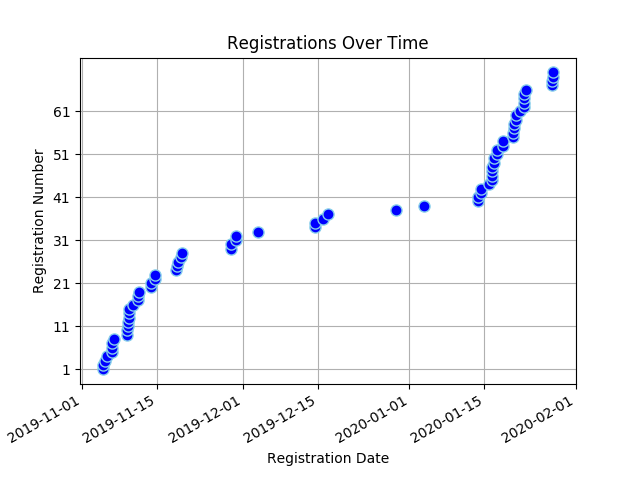
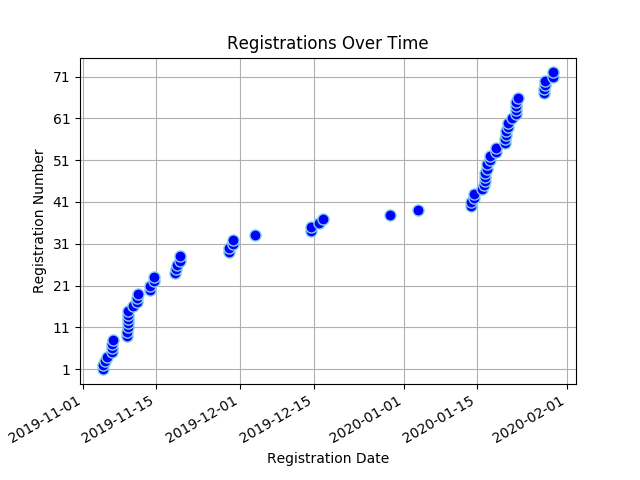
Registree stats backup on Wed Jan 29 12:38:31 SAST 2020

diff --git a/content/registrees/_index.md b/content/registrees/_index.md
@@ -3,9 +3,9 @@ title: Registration Stats
 draft: false
 ---
 
-<ul><li><strong>Number of Registrees</strong>: 70</li>
+<ul><li><strong>Number of Registrees</strong>: 72</li>
 
-<li><strong>Number of Clubs</strong>: 30</li>
+<li><strong>Number of Clubs</strong>: 31</li>
 
 <li><strong>Club With Most Attendees</strong>: Cape Of Good Hope (12 registrees)</li>
 </ul><h2>Registrees</h2>
@@ -30,6 +30,6 @@ draft: false
         </tr>
     </thead>
     <tbody>
-<tr><td>Valencia Beukes</td><td>Kuilsriver</td></tr><tr><td>Jose Braga Borges</td><td>Malmesbury</td></tr><tr><td>Nkandu Chapeshamano</td><td>Rustenburg</td></tr><tr><td>Lynnette Virginia Christians</td><td>Cape Of Good Hope</td></tr><tr><td>Sharon Cottle</td><td>Groote Schuur</td></tr><tr><td>Desiree Du Toit</td><td>Ramsgate</td></tr><tr><td>Charles Flanagan</td><td>Tokai</td></tr><tr><td>Julie Flanagan</td><td>Tokai</td></tr><tr><td>Allison Georges</td><td>Cape Of Good Hope</td></tr><tr><td>Valerie Graham</td><td>Nelspruit</td></tr><tr><td>Michael Graham</td><td>Nelspruit</td></tr><tr><td>Wendy Higgins</td><td>Wilro Park</td></tr><tr><td>Trevor Hobbs</td><td>North Durban</td></tr><tr><td>Avril Hobbs</td><td>North Durban</td></tr><tr><td>Jacqui Hocking</td><td>Midrand</td></tr><tr><td>Cliff Hocking</td><td>Midrand</td></tr><tr><td>Akinyemi Ismaila Tunde</td><td>Alberton</td></tr><tr><td>Dawid Jacobs</td><td>Durbanville</td></tr><tr><td>Brenda Joshua</td><td>Cape Of Good Hope</td></tr><tr><td>Charlotte Jubelin</td><td>Cape Of Good Hope</td></tr><tr><td>Pascal Kabangu</td><td>Cape Of Good Hope</td></tr><tr><td>Zwaai Krüger</td><td>Sedgefield</td></tr><tr><td>Heather Lee</td><td>Cape Of Good Hope</td></tr><tr><td>Darrol Lee</td><td>Cape Of Good Hope</td></tr><tr><td>Nick Maré</td><td>Benoni Lakes</td></tr><tr><td>Beaulieu Maré</td><td>Benoni Lakes</td></tr><tr><td>Lance Maytham</td><td>Bredasdorp</td></tr><tr><td>David McCullough</td><td>Benoni Lakes</td></tr><tr><td>Gizella McCullough</td><td>Benoni Lakes</td></tr><tr><td>Mark Meltzer</td><td>The Wilds</td></tr><tr><td>Roy Michas</td><td>Midrand</td></tr><tr><td>Dawn Michas</td><td>Midrand</td></tr><tr><td>Patrick Mills</td><td>Centurion</td></tr><tr><td>Bernice Mills</td><td>Centurion</td></tr><tr><td>Brian Moses</td><td>Cape Of Good Hope</td></tr><tr><td>Alain Moulounda</td><td>Cape Of Good Hope</td></tr><tr><td>Michael Newlands</td><td>Port Alfred</td></tr><tr><td>Ramona Nulliah</td><td>Durban Host</td></tr><tr><td>Gary Nulliah</td><td>Durban Host</td></tr><tr><td>Jessica Philander</td><td>Cape Of Good Hope</td></tr><tr><td>Yvonne  Maureen Poyo</td><td>Cape Of Good Hope</td></tr><tr><td>Pinky Serobatse</td><td>(Partner in Service)</td></tr><tr><td>Susanna Helena Smit</td><td>Centurion</td></tr><tr><td>Herman Smit</td><td>Swellendam</td></tr><tr><td>Berdine Smit</td><td>(Partner in Service)</td></tr><tr><td>Bennie Smith</td><td>Wellington</td></tr><tr><td>Rochelle Smith</td><td>Cape Of Good Hope</td></tr><tr><td>Jeff Smith</td><td>Port Shepstone</td></tr><tr><td>Pierre Theron</td><td>Midrand</td></tr><tr><td>Moira Theron</td><td>Midrand</td></tr><tr><td>Alex Tshikala</td><td>Athlone</td></tr><tr><td>Alistair Tuckett</td><td>Roodepoort Clearwater Cyber</td></tr><tr><td>Gail Tuckett</td><td>Roodepoort Clearwater Cyber</td></tr><tr><td>Rowan Tuckett</td><td>Roodepoort Clearwater Cyber</td></tr><tr><td>Yolandi Van der Schyf</td><td>Midrand</td></tr><tr><td>Keith Weston</td><td>Scottburgh</td></tr><tr><td>Barbara Weston</td><td>Scottburgh</td></tr><tr><td>Joyce Wilcocks</td><td>Pretoria Jakaranda</td></tr><tr><td>Richard Williams</td><td>(Partner in Service)</td></tr><tr><td>Owolabi Williams Monzur</td><td>Badagry</td></tr><tr><td>Geila Wills</td><td>Cape Town</td></tr><tr><td>Judy Young</td><td>Durbanville</td></tr><tr><td>Sydney van Heerden</td><td>Wilro Park</td></tr><tr><td>Sandy van Heerden</td><td>Wilro Park</td></tr><tr><td>Lindie van Wyk</td><td>Pretoria Jakaranda</td></tr><tr><td>Vicki van Wyk</td><td>North Durban</td></tr><tr><td>Kim van Wyk</td><td>North Durban</td></tr><tr><td>Patricia van Wyk</td><td>Pretoria Jakaranda</td></tr><tr><td>Willie van Wyk</td><td>Midrand</td></tr><tr><td>Martha Maria van der Merwe</td><td>Malmesbury</td></tr>
+<tr><td>Valencia Beukes</td><td>Kuilsriver</td></tr><tr><td>Annette Bothma</td><td>Fish Hoek</td></tr><tr><td>Jose Braga Borges</td><td>Malmesbury</td></tr><tr><td>Nkandu Chapeshamano</td><td>Rustenburg</td></tr><tr><td>Lynnette Virginia Christians</td><td>Cape Of Good Hope</td></tr><tr><td>Sharon Cottle</td><td>Groote Schuur</td></tr><tr><td>Desiree Du Toit</td><td>Ramsgate</td></tr><tr><td>Charles Flanagan</td><td>Tokai</td></tr><tr><td>Julie Flanagan</td><td>Tokai</td></tr><tr><td>Allison Georges</td><td>Cape Of Good Hope</td></tr><tr><td>Valerie Graham</td><td>Nelspruit</td></tr><tr><td>Michael Graham</td><td>Nelspruit</td></tr><tr><td>Wendy Higgins</td><td>Wilro Park</td></tr><tr><td>Trevor Hobbs</td><td>North Durban</td></tr><tr><td>Avril Hobbs</td><td>North Durban</td></tr><tr><td>Jacqui Hocking</td><td>Midrand</td></tr><tr><td>Cliff Hocking</td><td>Midrand</td></tr><tr><td>Akinyemi Ismaila Tunde</td><td>Alberton</td></tr><tr><td>Dawid Jacobs</td><td>Durbanville</td></tr><tr><td>Brenda Joshua</td><td>Cape Of Good Hope</td></tr><tr><td>Charlotte Jubelin</td><td>Cape Of Good Hope</td></tr><tr><td>Pascal Kabangu</td><td>Cape Of Good Hope</td></tr><tr><td>Zwaai Krüger</td><td>Sedgefield</td></tr><tr><td>Heather Lee</td><td>Cape Of Good Hope</td></tr><tr><td>Darrol Lee</td><td>Cape Of Good Hope</td></tr><tr><td>Nick Maré</td><td>Benoni Lakes</td></tr><tr><td>Beaulieu Maré</td><td>Benoni Lakes</td></tr><tr><td>Lance Maytham</td><td>Bredasdorp</td></tr><tr><td>David McCullough</td><td>Benoni Lakes</td></tr><tr><td>Gizella McCullough</td><td>Benoni Lakes</td></tr><tr><td>Mark Meltzer</td><td>The Wilds</td></tr><tr><td>Roy Michas</td><td>Midrand</td></tr><tr><td>Dawn Michas</td><td>Midrand</td></tr><tr><td>Patrick Mills</td><td>Centurion</td></tr><tr><td>Bernice Mills</td><td>Centurion</td></tr><tr><td>Brian Moses</td><td>Cape Of Good Hope</td></tr><tr><td>Alain Moulounda</td><td>Cape Of Good Hope</td></tr><tr><td>Michael Newlands</td><td>Port Alfred</td></tr><tr><td>Ramona Nulliah</td><td>Durban Host</td></tr><tr><td>Gary Nulliah</td><td>Durban Host</td></tr><tr><td>Jessica Philander</td><td>Cape Of Good Hope</td></tr><tr><td>Yvonne  Maureen Poyo</td><td>Cape Of Good Hope</td></tr><tr><td>Pinky Serobatse</td><td>(Partner in Service)</td></tr><tr><td>Susanna Helena Smit</td><td>Centurion</td></tr><tr><td>Herman Smit</td><td>Swellendam</td></tr><tr><td>Berdine Smit</td><td>(Partner in Service)</td></tr><tr><td>Bennie Smith</td><td>Wellington</td></tr><tr><td>Rochelle Smith</td><td>Cape Of Good Hope</td></tr><tr><td>Jeff Smith</td><td>Port Shepstone</td></tr><tr><td>Pierre Theron</td><td>Midrand</td></tr><tr><td>Moira Theron</td><td>Midrand</td></tr><tr><td>Alex Tshikala</td><td>Athlone</td></tr><tr><td>Alistair Tuckett</td><td>Roodepoort Clearwater Cyber</td></tr><tr><td>Gail Tuckett</td><td>Roodepoort Clearwater Cyber</td></tr><tr><td>Rowan Tuckett</td><td>Roodepoort Clearwater Cyber</td></tr><tr><td>Daniel Van Der Merwe</td><td>(Partner in Service)</td></tr><tr><td>Yolandi Van der Schyf</td><td>Midrand</td></tr><tr><td>Keith Weston</td><td>Scottburgh</td></tr><tr><td>Barbara Weston</td><td>Scottburgh</td></tr><tr><td>Joyce Wilcocks</td><td>Pretoria Jakaranda</td></tr><tr><td>Richard Williams</td><td>(Partner in Service)</td></tr><tr><td>Owolabi Williams Monzur</td><td>Badagry</td></tr><tr><td>Geila Wills</td><td>Cape Town</td></tr><tr><td>Judy Young</td><td>Durbanville</td></tr><tr><td>Sydney van Heerden</td><td>Wilro Park</td></tr><tr><td>Sandy van Heerden</td><td>Wilro Park</td></tr><tr><td>Lindie van Wyk</td><td>Pretoria Jakaranda</td></tr><tr><td>Vicki van Wyk</td><td>North Durban</td></tr><tr><td>Kim van Wyk</td><td>North Durban</td></tr><tr><td>Patricia van Wyk</td><td>Pretoria Jakaranda</td></tr><tr><td>Willie van Wyk</td><td>Midrand</td></tr><tr><td>Martha Maria van der Merwe</td><td>Malmesbury</td></tr>
 </tbody>
 </table>

diff --git a/content/full_stats/_index.md b/content/full_stats/_index.md
@@ -11,18 +11,18 @@
 <body>
 <h1 style="color: #000000;">Full Registration Stats</h1>
 <ul><li><strong>Number of Registrees</strong><ul>
-<li><strong>Total</strong>: 70</li>
-<li><strong>Lions</strong>: 67</li>
-<li><strong>Partners In Service</strong>: 3</li>
+<li><strong>Total</strong>: 72</li>
+<li><strong>Lions</strong>: 68</li>
+<li><strong>Partners In Service</strong>: 4</li>
 </ul>
-<li><strong>Number of Clubs</strong>: 30</li>
+<li><strong>Number of Clubs</strong>: 31</li>
 <li><strong>Club With Most Attendees</strong>: Cape Of Good Hope (12 registrees)</li>
-<li><strong>Registrations</strong></li><ul><li><strong>Full</strong>: 69
+<li><strong>Registrations</strong></li><ul><li><strong>Full</strong>: 70
 <li><strong>Banquet</strong>: 1
 <li><strong>Convention</strong>: 0
 <li><strong>Theme</strong>: 1
 </ul><li><strong>Extra Items</strong></li><ul>
-<li><strong>Pins</strong>: 62
+<li><strong>Pins</strong>: 63
 </ul><li><strong>Extra Activities</strong></li><ul>
 <li><strong>MJF Lunch</strong>: 20
 <li><strong>PDG Breakfast</strong>: 17
@@ -30,13 +30,14 @@
 <li><strong>Golf</strong>: 2
 <li><strong>Sight Seeing</strong>: 6
 <li><strong>Service Project</strong>: 17
-<li><strong>Partner Program</strong>: 3
+<li><strong>Partner Program</strong>: 4
 </ul>
-<li><strong>Total Owed:</strong> R93025.00</li>
-<li><strong>Paid:</strong> R34035.00</li>
-<li><strong>Still Owed:</strong> R58990.00</li>
+<li><strong>Total Owed:</strong> R94365.00</li>
+<li><strong>Paid:</strong> R35675.00</li>
+<li><strong>Still Owed:</strong> R58690.00</li>
 <li><strong>Dietary Requirements</strong></li><ul>
 <li>Allergic to cheese and cream</li>
+<li>Allergic to chocolate, cheese, coffee and crayfish</li>
 <li>Allergic to fish</li>
 <li>Halal</li>
 <li>No fish or mushrooms</li>
@@ -44,7 +45,7 @@
 <li>dairy</li>
 </ul>
 <li><strong>Disability Requirements</strong></li><ul>
-<li>None Recorded</li>
+<li>Due to Osteo Arthritis, I find climbing steps very difficult</li>
 </ul>
 </ul>
 <h2>Registrees</h2>
@@ -84,6 +85,17 @@ StillOwed
 <td>1340.00</td>
 <td>300.00</td>
 <td>1040.00</td>
+</tr>
+
+    
+<tr style="background-color: yellow">
+<td>79</td>
+<td>Annette Bothma</td>
+<td>Fish Hoek</td>
+<td>Annette</td>
+<td>1340.00</td>
+<td>0.00</td>
+<td>1340.00</td>
 </tr>
 
     
@@ -285,14 +297,14 @@ StillOwed
 </tr>
 
     
-<tr style="background-color: yellow">
+<tr style="background-color: lightgreen">
 <td>50</td>
 <td>Charlotte Jubelin</td>
 <td>Cape Of Good Hope</td>
 <td>RC Charlotte Jubelin</td>
 <td>1340.00</td>
-<td>0.00</td>
 <td>1340.00</td>
+<td>0.00</td>
 </tr>
 
     
@@ -505,14 +517,14 @@ StillOwed
 </tr>
 
     
-<tr style="background-color: yellow">
+<tr>
 <td>68</td>
 <td>Jessica Philander</td>
 <td>Cape Of Good Hope</td>
 <td>Lion Jessica Philander</td>
 <td>1340.00</td>
-<td>0.00</td>
-<td>1340.00</td>
+<td>300.00</td>
+<td>1040.00</td>
 </tr>
 
     
@@ -667,6 +679,17 @@ StillOwed
 <td>1340.00</td>
 <td>0.00</td>
 <td>1340.00</td>
+</tr>
+
+    
+<tr style="background-color: lightgreen" style="background-color: yellow">
+<td>80</td>
+<td>Daniel Van Der Merwe</td>
+<td>(Partner in Service)</td>
+<td>Daniel Van Der Merwe</td>
+<td>0.00</td>
+<td>0.00</td>
+<td>0.00</td>
 </tr>
 
     
